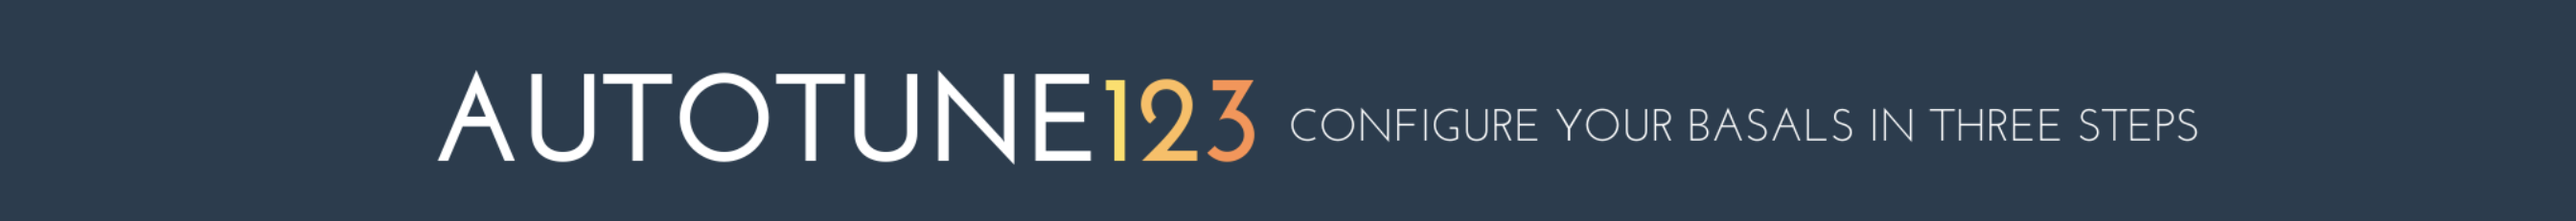
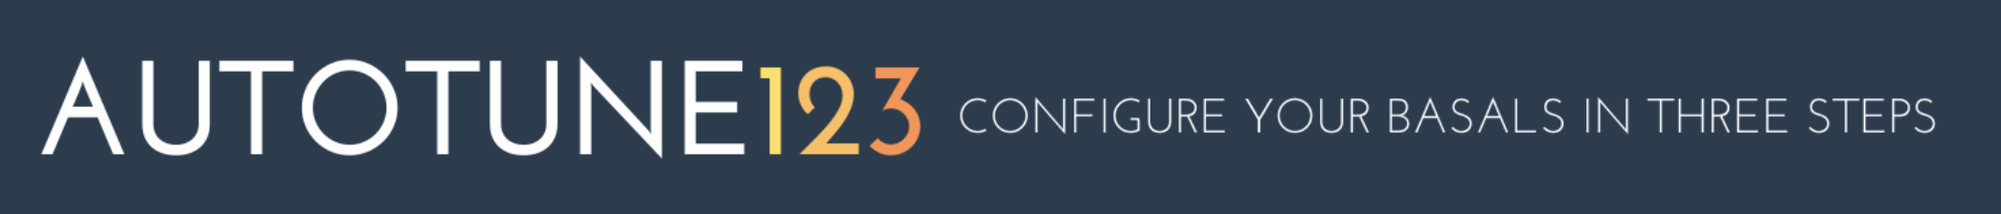
transpar background and centering of dcc.loader, text corrections

Changed region(s): [[0.0, 0.2812, 0.9646, 0.75]]

diff --git a/dash_app.py b/dash_app.py
@@ -49,7 +49,36 @@ def init_dashboard(server):
 
     # LAYOUT
     app.layout = html.Div([
-        html.Img(src=app.get_asset_url("header.png"), style={'width': '100%'}),
+        dbc.Navbar(
+            html.A(
+            html.Img(src=app.get_asset_url("header.png"), height="100px"),
+                href="https://www.autotune123.com",
+                style={"textDecoration": "none"},
+            ),
+            # dbc.Container(
+            #     [
+            #         html.A(
+            #             # Use row and col to control vertical alignment of logo / brand
+            #             dbc.Row(
+            #                 [
+            #                     dbc.Col(html.Img(src=app.get_asset_url("header.png"), height="60px")),
+            #                     # dbc.Col(dbc.NavbarBrand("Configure your basals in three steps", className="ms-3")),
+            #                 ],
+            #                 align="center",
+            #                 className="g-0",
+            #             ),
+            #             href="https://plotly.com",
+            #             style={"textDecoration": "none"},
+            #         ),
+            #         # dbc.NavbarToggler(id="navbar-toggler", n_clicks=0),
+            #     ]
+            # ),
+            color="primary",
+            dark=True,
+            style={'textAlign':"center"},
+            className='justify-content-center',
+        ),
+
         dbc.Row(children=[html.Div(" .", id="step-0")]),
         html.H3("", id='title', style={'textAlign': 'center', }),
         html.H4("", id='subtitle', style={'textAlign': 'center'}),
@@ -59,6 +88,13 @@ def init_dashboard(server):
             fullscreen=True,
             type="circle",
             color="#2c3e50",
+            style={'backgroundColor': 'transparent',
+                   # 'height': '50%',
+                   # 'width': '50%',
+                   'text-align': 'center',
+                   'margin': 'auto',
+                   'justify-content':'center'
+                   },
             children=
         dbc.Row([
             html.Div(children=[
@@ -100,7 +136,7 @@ def init_dashboard(server):
                 dbc.Row(children=[
                     html.Div(id="step-3", hidden=False, children=[
                     dbc.Row([
-                        html.H5("3A: Apply filter to smooth of calculated recommendations (optional)"),
+                        html.H5("3A: Apply filter to smooth calculated recommendations (optional)"),
                         dbc.Row(children=[html.Div(children=step3_graph),]),
                         html.Br(),
                         html.Hr(),
@@ -155,7 +191,7 @@ def init_dashboard(server):
                     dbc.Row([
                         html.H5("3C: Upload to NightScout:"),
                         html.Div(children=[
-                            "Enter your API secret and click the upload button. API secrets are not saved in Autotune123. If you don't want to use this website for uploading recommendations, you can "
+                            "Enter your API secret and click the activate button. API secrets and NightScout URLs are not saved in Autotune123. If you don't want to use this website for activating recommendations, you can "
                             "download the code from ",github_link," and run it locally on your computer."
                             ]
                             ),
@@ -188,38 +224,38 @@ def init_dashboard(server):
             justify='center'),),
         dbc.Row([
             dbc.Col([
-                dcc.Link("What is Autotune?",
-                         href="https://openaps.readthedocs.io/en/latest/docs/Customize-Iterate/autotune.html",
-                         target="_blank",
-                         style={'color': 'darkgrey'}),
-            ], width={"size": 2, "order": 2, "offset": 0},
-            ),
-            dbc.Col([
                 dcc.Link("What is Autotune123?",
                          href="https://github.com/KelvinKramp/Autotune123",
                          target="_blank",
-                         style={'color': 'darkgrey'}),
+                         style={'color': '#2c3e50'}),
             ], width={"size": 2, "order": 3, "offset": 0},
+            ),
+            dbc.Col([
+                dcc.Link("What is Autotune?",
+                         href="https://openaps.readthedocs.io/en/latest/docs/Customize-Iterate/autotune.html",
+                         target="_blank",
+                         style={'color': '#2c3e50'}),
+            ], width={"size": 2, "order": 2, "offset": 0},
             ),
             dbc.Col([
                 dcc.Link("What is NightScout?",
                          href="https://nightscout.github.io/",
                          target="_blank",
-                         style={'color': 'darkgrey'}),
+                         style={'color': '#2c3e50'}),
             ], width={"size": 2, "order": 3, "offset": 0},
             ),
             dbc.Col([
-                dcc.Link("How to get glucose data from the Freestyle libre 2 to Nightscout ",
+                dcc.Link("How to get glucose data from the Freestyle libre 2 to Nightscout",
                          href="https://towardsdatascience.com/how-to-hack-a-glucose-sensor-ebaaf2238170",
                          target="_blank",
-                         style={'color': 'darkgrey'}),
+                         style={'color': '#2c3e50'}),
             ], width={"size": 2, "order": 3, "offset": 0},
             ),
             dbc.Col([
-                dcc.Link("MIT license",
+                dcc.Link("Open source MIT license",
                          href="https://github.com/KelvinKramp/Autotune123/blob/master/LICENSE.txt",
                          target="_blank",
-                         style={'color': 'darkgrey'}),
+                         style={'color': '#2c3e50'}),
             ], width={"size": 2, "order": 3, "offset": 0},
             ),
         ], style={

diff --git a/t.py b/t.py
@@ -1,0 +1,70 @@
+import dash_bootstrap_components as dbc
+from dash import Input, Output, State, html
+from dash_bootstrap_components._components.Container import Container
+import dash
+from dash.dependencies import Input, Output
+import dash_core_components as dcc
+import dash_html_components as html
+
+import flask
+import pandas as pd
+import time
+import os
+
+server = flask.Flask('app')
+
+app = dash.Dash('app', server=server)
+
+PLOTLY_LOGO = "assets/plotly-logomark.png"
+
+search_bar = dbc.Row(
+    [
+        dbc.Col(dbc.Input(type="search", placeholder="Search")),
+        dbc.Col(
+            dbc.Button(
+                "Search", color="primary", className="ms-2", n_clicks=0
+            ),
+            width="auto",
+        ),
+    ],
+    className="g-0 ms-auto flex-nowrap mt-3 mt-md-0",
+    align="center",
+)
+
+app.layout = dbc.Navbar(
+    dbc.Container(
+        [
+            html.A(
+                # Use row and col to control vertical alignment of logo / brand
+                dbc.Row(
+                    [
+                        dbc.Col(html.Img(src=PLOTLY_LOGO, height="30px")),
+                        dbc.Col(dbc.NavbarBrand("Navbar", className="ms-2")),
+                    ],
+                    align="center",
+                    className="g-0",
+                ),
+                href="https://plotly.com",
+                style={"textDecoration": "none"},
+            ),
+            dbc.NavbarToggler(id="navbar-toggler", n_clicks=0),
+        ]
+    ),
+    color="primary",
+    dark=True,
+)
+
+
+# add callback for toggling the collapse on small screens
+@app.callback(
+    Output("navbar-collapse", "is_open"),
+    [Input("navbar-toggler", "n_clicks")],
+    [State("navbar-collapse", "is_open")],
+)
+def toggle_navbar_collapse(n, is_open):
+    if n:
+        return not is_open
+    return is_open
+
+if __name__ == '__main__':
+    app.run_server()

diff --git a/README.MD b/README.MD
@@ -2,7 +2,15 @@
 
 Autotune123 is a web application for type 1 diabetics to configure their insuline pump basal rate. It relies on the open source [OpenAPS Autotune algorithm](https://github.com/openaps/oref0), the 
 Savitzky-Golay filter, and uses data from a personal [NightScout](https://nightscout.github.io/) websites as input to propose a 24-hour basal curve. 
-You can see how it in action by going to www.autotune123.com and using the NightScout website url https://tig-diab.herokuapp.com as input.
+You can see how it in action by going to www.autotune123.com and using a NightScout website url as an input.
+
+"Autotune is a work in progress tool. Do not blindly make changes to your pump settings without careful consideration. You may want to print the output of this tool and discuss any particular changes with your care team. Make note that you probably do not want to make long-term changes based on short term (i.e. 24 hour) data. Most people will choose to make long term changes after reviewing carefully autotune output of 3-4 weeks worth of data."
+from the [Open APS - Understanding Autotune page](https://openaps.readthedocs.io/en/latest/docs/Customize-Iterate/understanding-autotune.html)
+
+Remember that Autotune does only works if:
+- You have a NightScout account
+- You have logged your carbs accurately
+- You virtually disconnect your pump in the looping app if your pump is physically disconnected (e.g. during showering) 
 
 
 ## Screenshot
@@ -19,6 +27,7 @@ OpenAPS Autotune is based mainly on Javascript. This repository is written in Py
 If you run it on your own computer, you have to follow the steps written over [here](https://openaps.readthedocs.io/en/latest/docs/Customize-Iterate/autotune.html) to install the Javascript OpenAPS Autotune.
 
 After that install python, pip and git. There is an abundance of good tutorials on YouTube that guide you through the process. 
+
 After installation of these applications run the following commands in your project directory:
 
 ```bash
